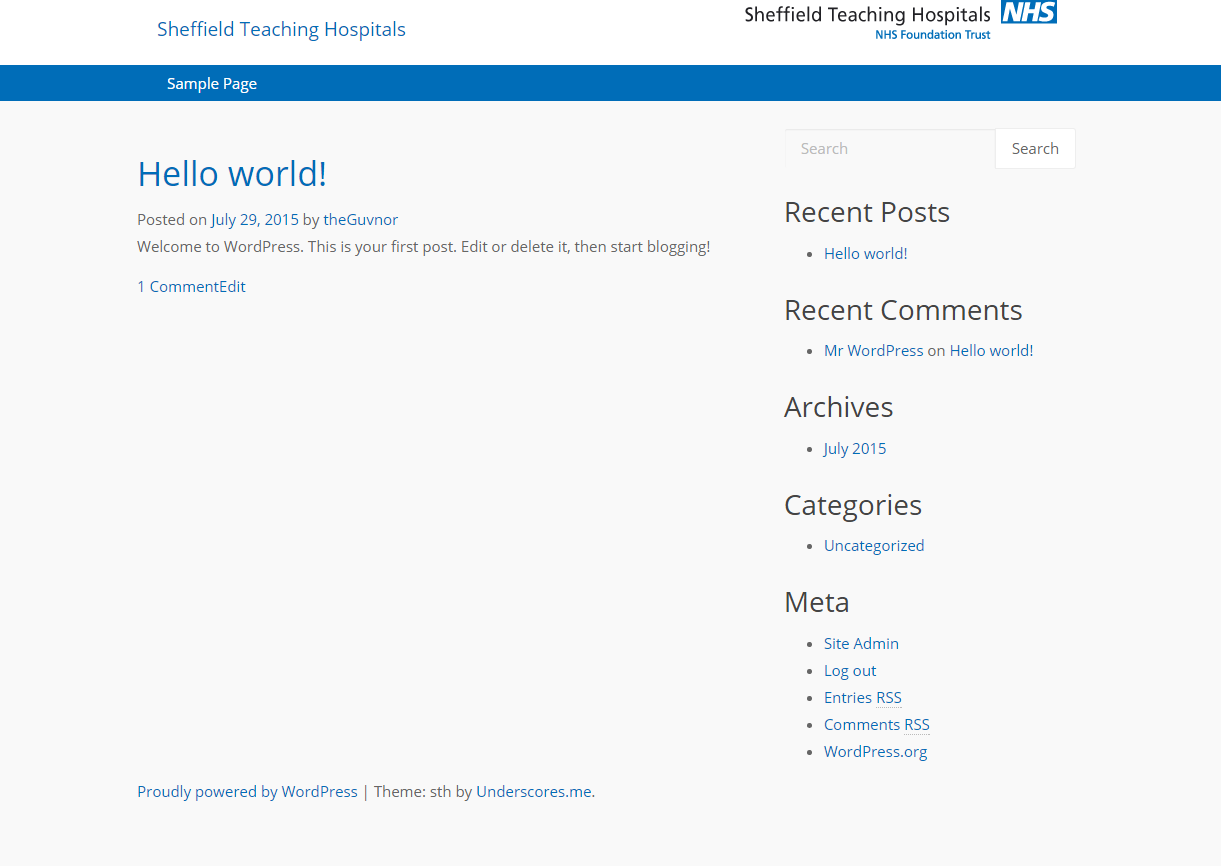
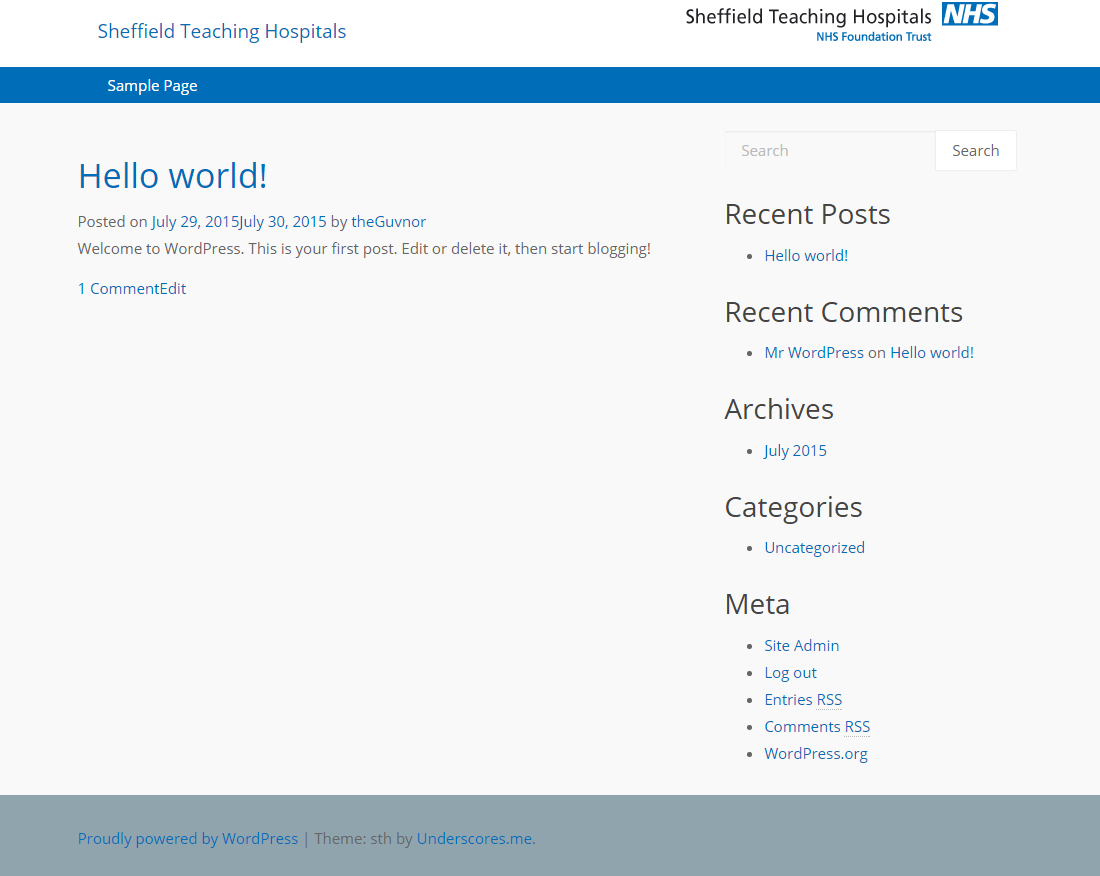
update style.css

diff --git a/styles/stylesheets/styles.css b/styles/stylesheets/styles.css
@@ -1,4 +1,12 @@
 @charset "UTF-8";
+/*
+Theme Name: WP STH
+Theme URI: http://www.sth.nhs.uk/
+Description: A simple starter theme for all STH based WordPress themes
+Version: 0.1
+Author: Andrew Duckworth
+Author URI: https://github.com/GrilloPress
+*/
 @import url(http://fonts.googleapis.com/css?family=Open+Sans);
 /*!
  * Bootstrap v3.3.5 (http://getbootstrap.com)
@@ -8788,4 +8796,12 @@ button.close {
 /* line 19, ../sass/_navbar.scss */
 .icon-bar {
   color: white;
+}
+
+/* line 1, ../sass/_footer.scss */
+.site-footer {
+  background-color: #90A4AE;
+  padding-top: 30px;
+  padding-bottom: 30px;
+  margin-top: 15px;
 }

diff --git a/wordpress/wp-content/themes/sth/style.css b/wordpress/wp-content/themes/sth/style.css
@@ -1,4 +1,12 @@
 @charset "UTF-8";
+/*
+Theme Name: WP STH
+Theme URI: http://www.sth.nhs.uk/
+Description: A simple starter theme for all STH based WordPress themes
+Version: 0.1
+Author: Andrew Duckworth
+Author URI: https://github.com/GrilloPress
+*/
 @import url(http://fonts.googleapis.com/css?family=Open+Sans);
 /*!
  * Bootstrap v3.3.5 (http://getbootstrap.com)
@@ -8788,4 +8796,12 @@ button.close {
 /* line 19, ../sass/_navbar.scss */
 .icon-bar {
   color: white;
+}
+
+/* line 1, ../sass/_footer.scss */
+.site-footer {
+  background-color: #90A4AE;
+  padding-top: 30px;
+  padding-bottom: 30px;
+  margin-top: 15px;
 }
